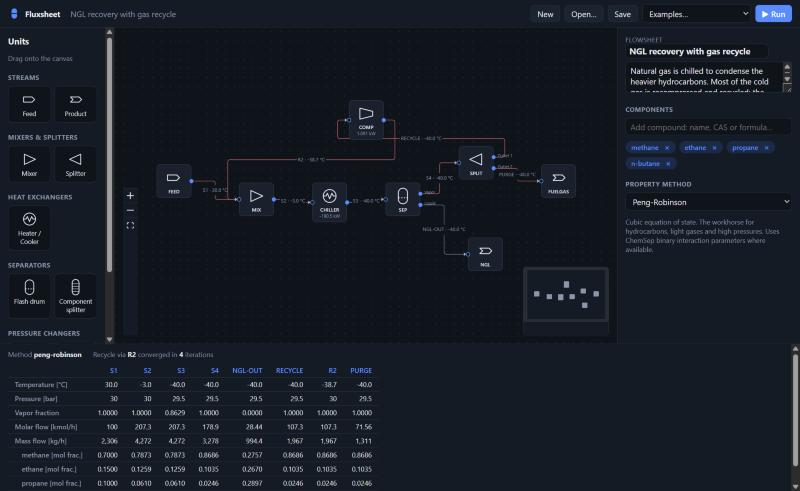
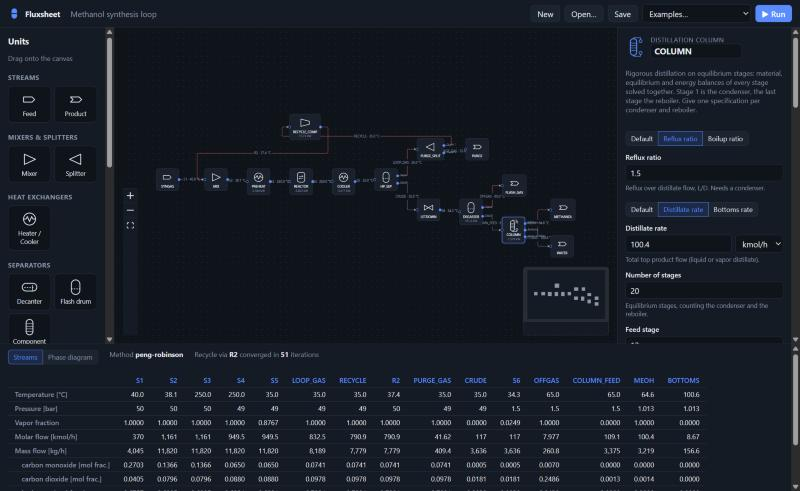
Integrate columns, reactors and thermo models
- solver: units downstream of a recycle loop run once after the loop
  converges instead of in every iteration (a column behind a reactor
  loop failed on its unconverged early feed); regression test added
- CLI prints every declared energy result (e.g. condenser and reboiler
  duty), not only "duty" and "power"
- new combined example: methanol synthesis loop with equilibrium
  reactor, gas recycle with purge, degasser and rigorous column
- README: screenshot, status and roadmap updated

diff --git a/src/fluxsheet/solver.py b/src/fluxsheet/solver.py
@@ -248,16 +248,23 @@ class Solver:
         for sid in tears:
             streams[sid] = Stream.from_flash(pkg, [0.0] * pkg.n, T=feed_T, P=feed_P)
 
+        # Only units that feed back into a tear stream take part in the iterations. Units
+        # downstream of the loop (e.g. a column on the crude product) run once at the end, so
+        # they never see the unconverged intermediate states.
+        loop = self._upstream_of({c.src_unit for c in self.connections if c.id in tears})
+        loop_order = [u for u in order if u in loop]
+
         opts = self.model.solver
         prev_x: dict[str, list[float]] = {}
         prev_g: dict[str, list[float]] = {}
         for iteration in range(1, opts.max_iterations + 1):
             x = {sid: self._vector(streams[sid]) for sid in tears}
-            self._sweep(pkg, order, streams)
+            self._sweep(pkg, loop_order, streams)
             g = {sid: self._vector(streams[sid]) for sid in tears}
 
             if all(self._close(x[s], g[s], opts.tolerance) for s in tears):
                 result.iterations, result.converged = iteration, True
+                self._sweep(pkg, [u for u in order if u not in loop], streams)
                 return streams
 
             if opts.acceleration == "wegstein" and iteration >= 3 and prev_x:
@@ -274,6 +281,20 @@ class Solver:
             hint="check that every component has a way out of the loop (a purge or product), "
             "or raise solver.max_iterations",
         )
+
+    def _upstream_of(self, targets: set[str]) -> set[str]:
+        """``targets`` plus every unit with a path of streams leading to one of them."""
+        feeds_into: dict[str, set[str]] = {u: set() for u in self.units}
+        for c in self.connections:
+            if c.dst_unit is not None:
+                feeds_into[c.dst_unit].add(c.src_unit)
+        seen, todo = set(targets), list(targets)
+        while todo:
+            for src in feeds_into[todo.pop()]:
+                if src not in seen:
+                    seen.add(src)
+                    todo.append(src)
+        return seen
 
     @staticmethod
     def _vector(s: Stream) -> list[float]:

diff --git a/tests/test_core.py b/tests/test_core.py
@@ -189,3 +189,31 @@ def test_valve_cannot_raise_pressure():
         [{"id": "S1", "from": "F.out", "to": "V.in"}],
     ))
     assert not r.ok and "pump or compressor" in r.error["hint"]
+
+
+def test_units_downstream_of_a_recycle_run_once_after_convergence(monkeypatch):
+    # Units that do not feed back into the loop must never see unconverged loop states
+    # (a column behind a reactor loop failed on its early, too-small feed before this).
+    model = FlowsheetModel.load(EXAMPLES / "gas_recycle.json")
+    model.units.append(model.units[0].model_copy(
+        update={"id": "NGL_HEATER", "type": "Heater", "params": {"T": "20 degC"}, "ui": None}))
+    for s in model.streams:
+        if s.id == "NGL-OUT":
+            s.target = "NGL_HEATER.in"
+    model.streams.append(type(model.streams[0])(id="NGL-WARM", source="NGL_HEATER.out",
+                                                target="NGL.in"))
+    from fluxsheet.units.heat import Heater
+
+    calls = []
+    original = Heater.calculate
+
+    def counting(self, pkg, inlets):
+        calls.append(self.id)
+        return original(self, pkg, inlets)
+
+    monkeypatch.setattr(Heater, "calculate", counting)
+    r = solve(model)
+    assert r.ok, r.error
+    assert r.iterations > 1
+    assert calls.count("NGL_HEATER") == 1
+    assert calls.count("CHILLER") == r.iterations

diff --git a/src/fluxsheet/cli.py b/src/fluxsheet/cli.py
@@ -8,6 +8,7 @@ import sys
 
 from .flowsheet import FlowsheetModel
 from .solver import solve
+from .units import UNIT_TYPES
 
 
 def _fmt_table(result) -> str:
@@ -48,14 +49,16 @@ def _run(args) -> int:
               f"converged in {result.iterations} iterations")
     print()
     print(_fmt_table(result))
-    duties = [(uid, u) for uid, u in result.units.items() if "duty" in u or "power" in u]
-    if duties:
+    # Energy results each unit declares (duty, power, condenser duty, ...), in kW.
+    lines = []
+    for uid, u in result.units.items():
+        cls = UNIT_TYPES.get(u.get("type"))
+        for f in cls.result_fields if cls else ():
+            if f.quantity == "power" and isinstance(u.get(f.name), (int, float)):
+                lines.append(f"{uid}: {f.label.lower()} {u[f.name] / 1e3:.4g} kW")
+    if lines:
         print()
-        for uid, u in duties:
-            if "duty" in u:
-                print(f"{uid}: duty {u['duty'] / 1e3:.4g} kW")
-            if "power" in u:
-                print(f"{uid}: power {u['power'] / 1e3:.4g} kW")
+        print("\n".join(lines))
     for w in result.warnings:
         print(f"warning: {w}")
     return 0

diff --git a/README.md b/README.md
@@ -4,10 +4,16 @@
 compounds from a database of ~76,000, and get rigorous phase-equilibrium results, with
 error messages that tell you what to do next.
 
-![Fluxsheet editor: an NGL recovery process with a gas recycle](docs/screenshot.jpg)
+![Fluxsheet editor: a methanol synthesis loop with reactor, gas recycle and distillation column](docs/screenshot.jpg)
 
-> **Status: early prototype (v0.1).** Steady-state, sequential-modular, vapor–liquid. Good for
-> learning and conceptual design; not yet a replacement for commercial simulators.
+> **Status: early prototype.** Steady-state and sequential-modular, with reactors, columns and
+> vapor–liquid–liquid equilibrium. Good for learning and conceptual design; not yet a
+> replacement for commercial simulators.
+
+The example in the screenshot, [`examples/methanol_plant.json`](examples/methanol_plant.json),
+puts it all together: syngas reacts to methanol in an equilibrium reactor, the unconverted gas
+is recompressed and recycled with a purge, and a rigorous column splits the crude into 99.8 %
+methanol and water.
 
 ## Why another simulator?
 
@@ -170,7 +176,7 @@ extend it.
 ## Roadmap
 
 - [x] Distillation: shortcut column (Fenske–Underwood–Gilliland), then rigorous MESH column
-- [ ] Reactors: stoichiometric, equilibrium (Gibbs), CSTR/PFR with kinetics
+- [x] Reactors: stoichiometric, yield, equilibrium, Gibbs, CSTR/PFR with kinetics
 - [x] NRTL / UNIQUAC / Wilson with regressed (ChemSep) binary parameters, UNIFAC estimates for gaps
 - [ ] Parameter fitting from NIST ThermoML data
 - [x] Vapor–liquid–liquid equilibrium (decanters, three-phase flash)
@@ -182,11 +188,11 @@ extend it.
 ## Project layout
 
 ```
-src/fluxsheet/   Python core: compounds, thermo, units, solver, CLI, HTTP API
-web/                 React + React Flow editor
-examples/            Example flowsheets (also loadable in the editor)
-tests/               pytest suite
-docs/                Architecture and data-source notes
+src/fluxsheet/   Python core: compounds, thermo, reactions, units, column solver, CLI, HTTP API
+web/             React + React Flow editor
+examples/        Example flowsheets (also loadable in the editor)
+tests/           pytest suite
+docs/            Architecture and data-source notes
 ```
 
 More in [docs/architecture.md](docs/architecture.md). Contributions are welcome, see
